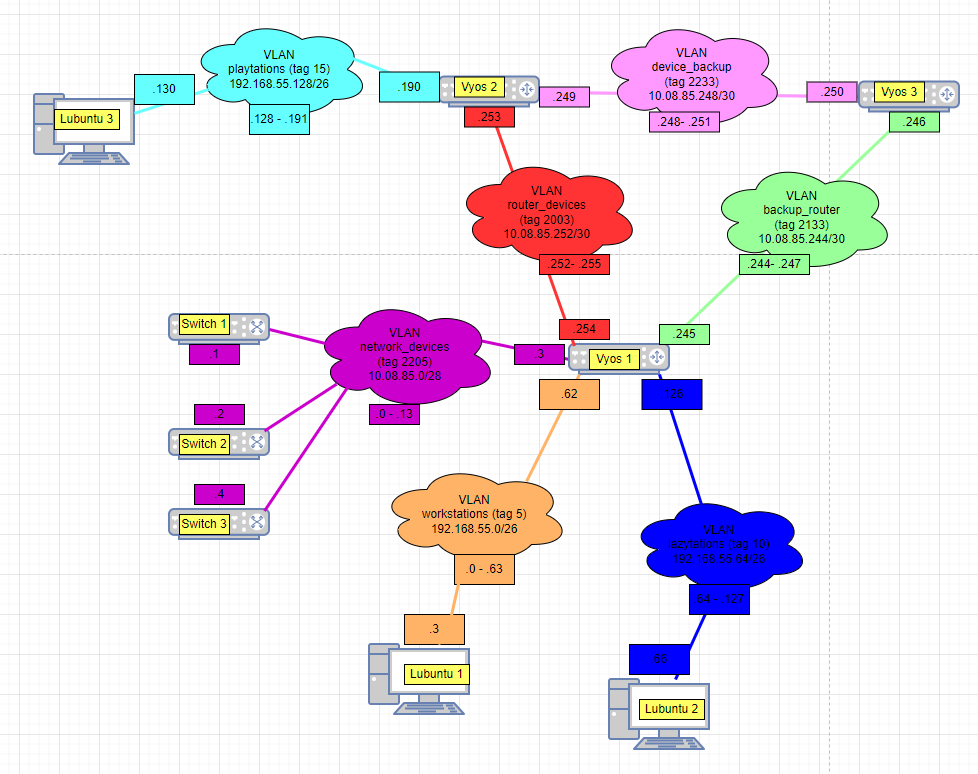
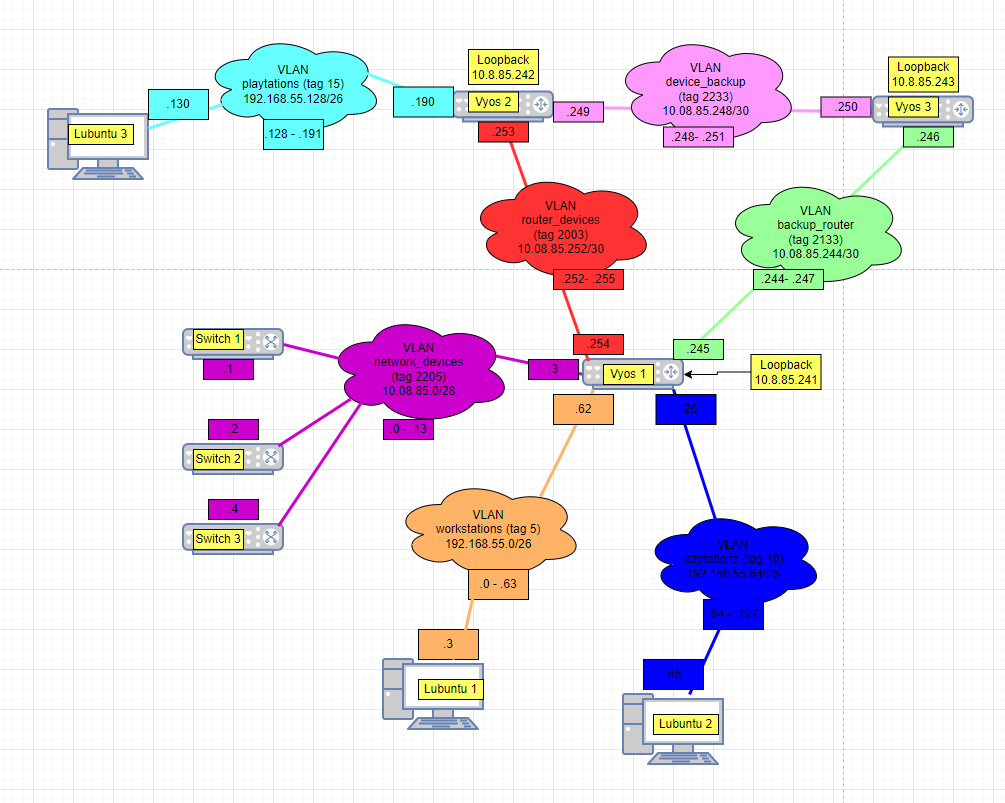
e08 done

diff --git a/documentation/E08.md b/documentation/E08.md
@@ -123,3 +123,17 @@ Katsotaan vielä reititystauluista onko muutokset voimassa
 ![ospf database](./E08/ospfdatabase.png)
 
 ## Yhteystestaukset
+
+otetaan lubuntu 1 to lubuntu 3 sekä lubuntu 3 to lubuntu 2 ping ja traceroutet
+
+![ping ja traceroue](./E08/pingjatrace.png)
+
+huomataan, että reititykset kulkee suunnitellun mukaisesti
+
+### vyos konfiguraatiot
+
+![vyos1conf](./E08/vyos1.cfg)
+
+![vyos2conf](./E08/vyos2.cfg)
+
+![vyos3conf](./E08/vyos3.cfg)
